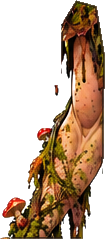
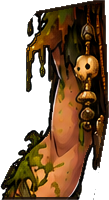
Swap in the cartoon-style Eddie art
Claude-Session: https://claude.ai/code/session_01KtnnmncaZrvFEhmEP7SEfj

diff --git a/src/scenes/Boss.js b/src/scenes/Boss.js
@@ -346,8 +346,9 @@ export class Boss extends Phaser.Scene {
     this.after(2.6, () => {
       const hand = this.add.container(e.x + 20, GROUND_Y + 160).setDepth(9);
       const hs = e.k * 1.5;   // drawn a bit larger than life so it reads at phone size
-      const arm = this.add.image(0, 0, 'e_foN').setOrigin(0.58, 0.07).setScale(hs).setAngle(180);
-      const rock = this.add.image(43 * hs, -175 * hs, 'e_rock_s1').setScale(0.9);
+      const f = e.RIG.foN, hd = e.RIG._hand;   // forearm turned upside down so the hand points at the sky
+      const arm = this.add.image(0, 0, 'e_foN').setOrigin((f.px - f.x) / f.w, (f.py - f.y) / f.h).setScale(hs).setAngle(180);
+      const rock = this.add.image(-(hd[0] - f.px) * hs, -(hd[1] - f.py) * hs + 10, 'e_rock_s1').setScale(0.9);
       hand.add([arm, rock]);
       const mg = this.make.graphics({ add: false }); mg.fillStyle(0xffffff).fillRect(0, 0, W, GROUND_Y + 4);
       hand.setMask(mg.createGeometryMask());
@@ -405,7 +406,7 @@ export class Boss extends Phaser.Scene {
     if (this.mode === 'running') this.collide();
     // speech bubble follows Eddie's head
     const b = this.bubble;
-    if (b.visible) { b.life -= dt; const h = this.e.headTop(); b.setPosition(clamp(h[0] - 40, 320, W - 320), Math.max(170, h[1] - 30)); b.setAlpha(Math.min(1, b.life * 4)); if (b.life <= 0) b.setVisible(false); }
+    if (b.visible) { b.life -= dt; const h = this.e.headTop(); b.setPosition(clamp(h[0] - 40, 320, W - 320), clamp(h[1] - 30, 170, GROUND_Y - 260)); b.setAlpha(Math.min(1, b.life * 4)); if (b.life <= 0) b.setVisible(false); }
     this.drawBoxes();
   }
 

diff --git a/src/eddie/Eddie.js b/src/eddie/Eddie.js
@@ -39,7 +39,7 @@ export class Eddie {
     img('thF', chain(['thF'])); img('shF', chain(['thF', 'shF']));
     img('thN', chain(['thN'])); img('shN', chain(['thN', 'shN']));
     // torso: top as one piece, the rag skirt below the belt as thin strips that sway like cloth
-    const tp = R.torso, split = 575 - tp.y;
+    const tp = R.torso, split = 590 - tp.y;   // below the belt, the rag skirt sways
     const top = sc.add.image(tp.x - T[0], tp.y - T[1], 'e_torso').setOrigin(0, 0).setCrop(0, 0, tp.w, split);
     this.torsoC.add(top); this.images.push(top);
     this.strips = [];
